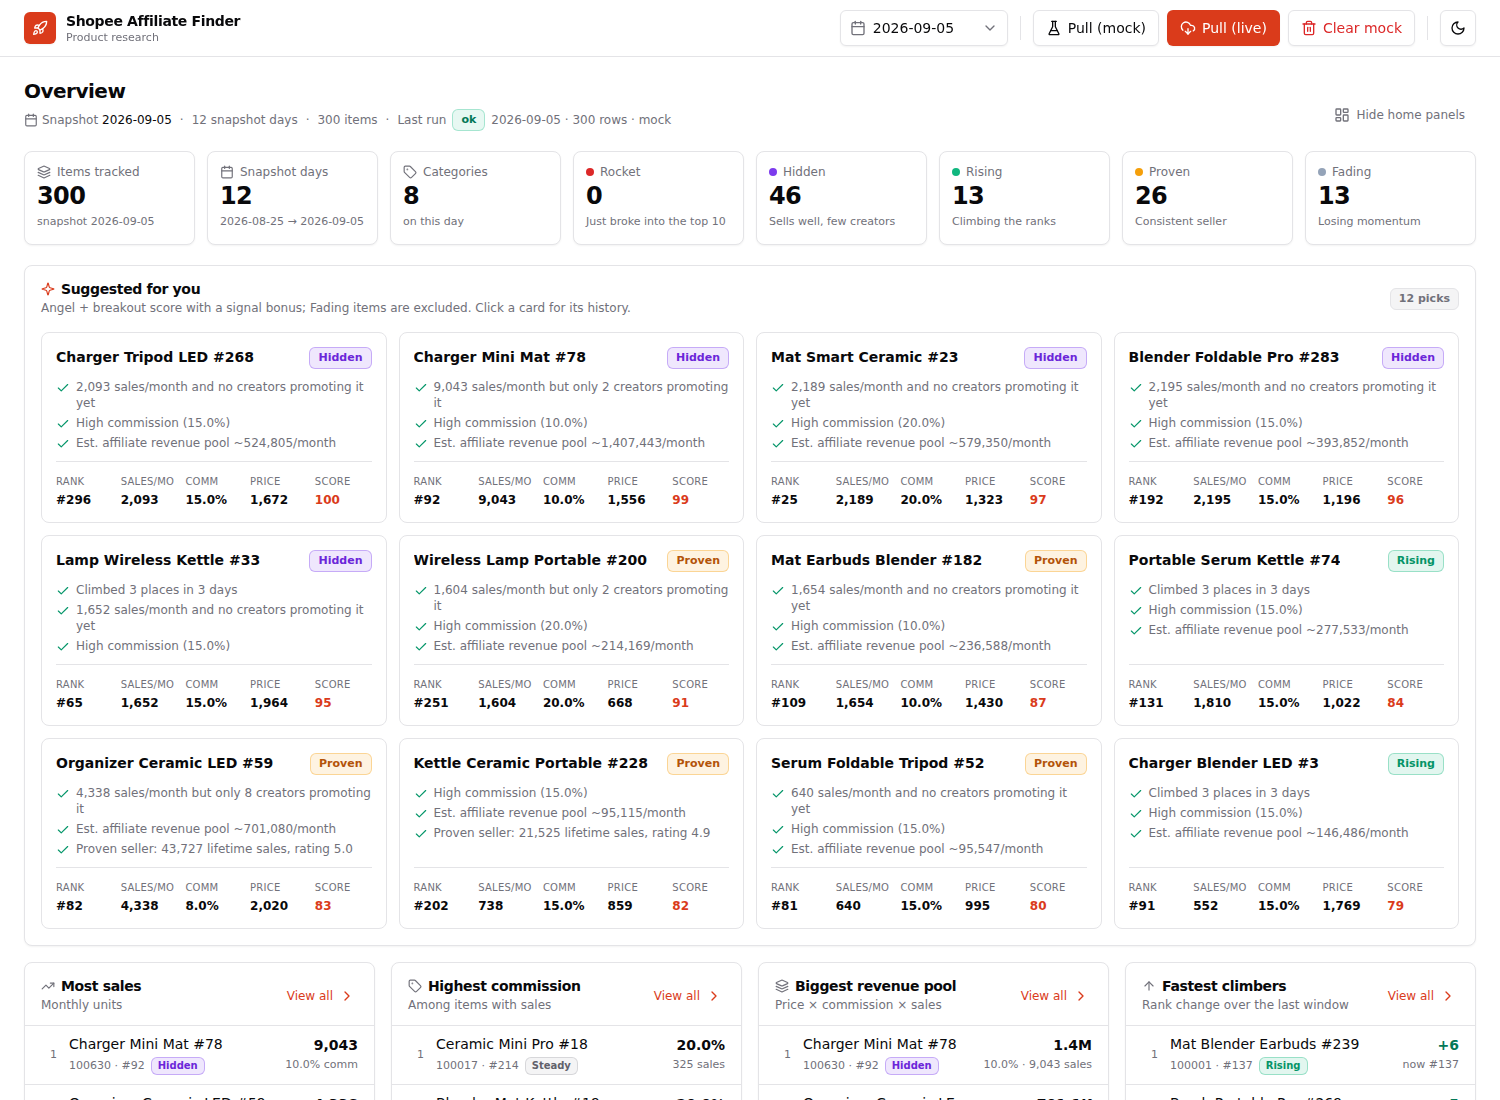
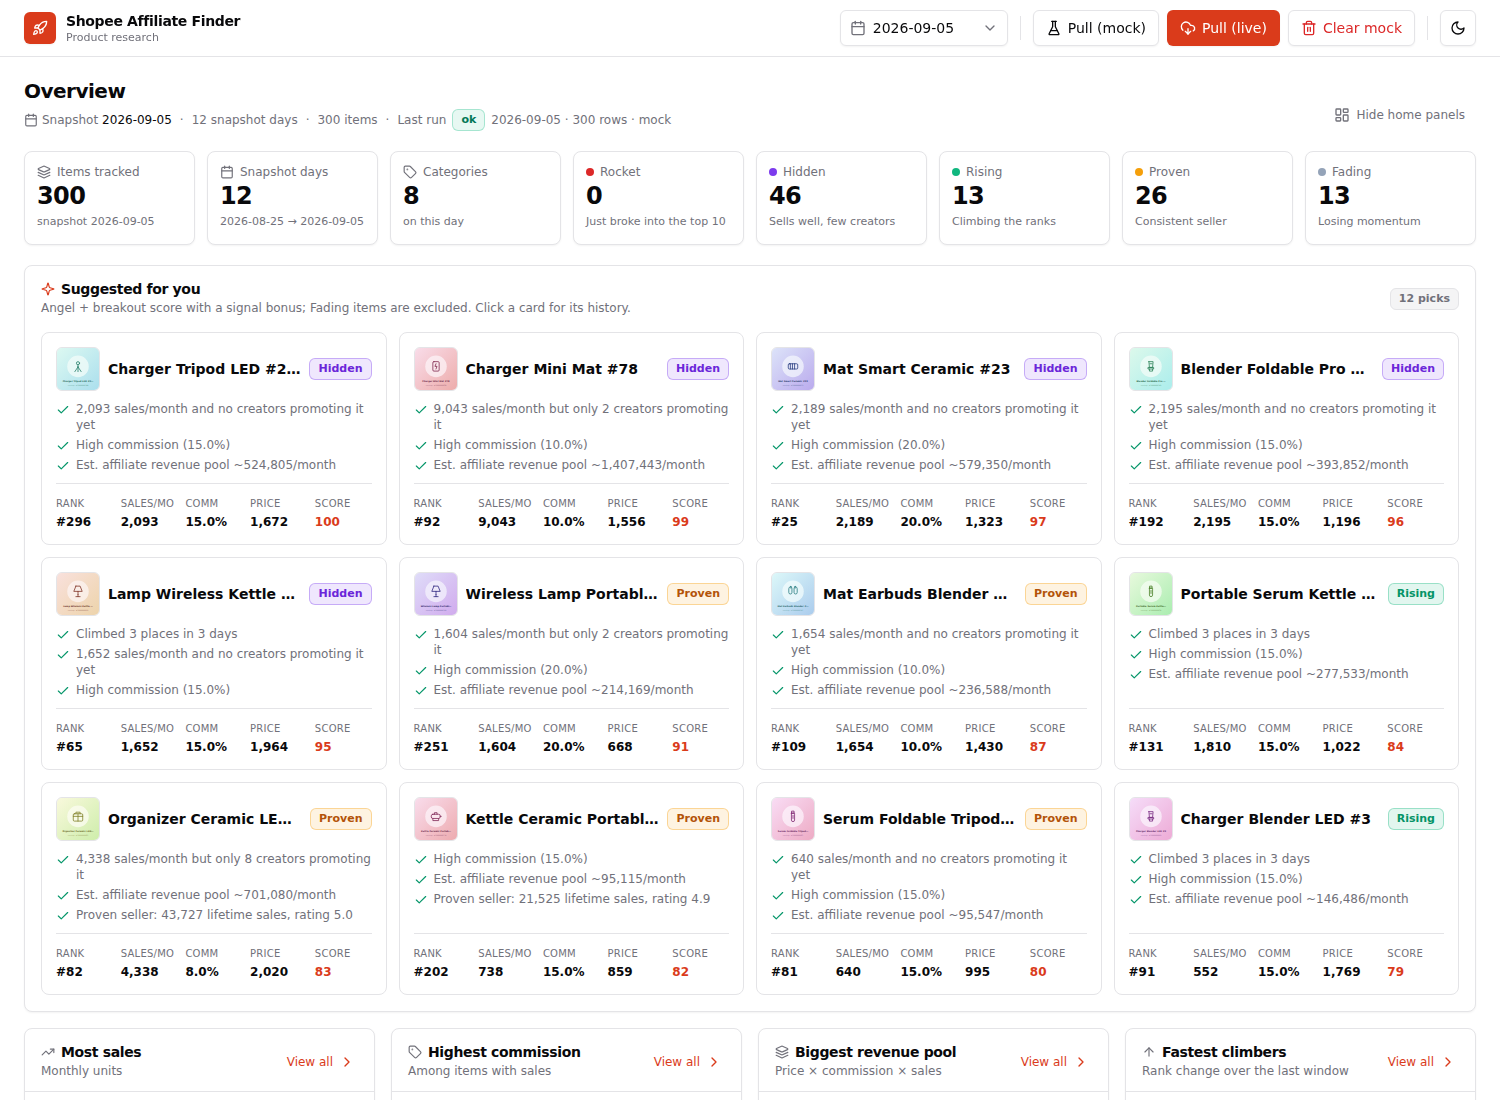
Add product thumbnails with generated mock-up images
Show product images in suggested-pick cards, top-10 lists, table rows and
the detail panel. Real Shopee imageUrl values are used when present; a new
/img/placeholder/{item_id}.svg endpoint renders a deterministic mock-up
(hue from the item id, line icon from the product type in the title) for
synthetic rows and as an onerror fallback for missing or broken images.

Claude-Session: https://claude.ai/code/session_01Ni1ZSZnkdAAxzhbuxuRvuD

Changed region(s): [[0.0307, 0.3091, 0.9813, 1.0], [0.92, 0.9273, 0.9813, 0.9891]]

diff --git a/shopee_aff/templates/index.html b/shopee_aff/templates/index.html
@@ -143,6 +143,7 @@
     .field { @apply flex min-w-0 flex-col gap-1.5; }
     .field > span { @apply text-xs font-medium text-muted-foreground; }
     .card { @apply rounded-lg border bg-card text-card-foreground shadow-sm; }
+    .thumb { @apply shrink-0 rounded-md border bg-muted object-cover; }
     .card-head { @apply flex flex-wrap items-start justify-between gap-3 p-4 pb-2; }
     .card-title { @apply text-sm font-semibold leading-none tracking-tight; }
     .card-desc { @apply mt-1 text-xs text-muted-foreground; }
@@ -197,7 +198,8 @@
     .list .v small { @apply block text-[11px] font-normal text-muted-foreground; }
     .pick { @apply flex cursor-pointer flex-col gap-2.5 rounded-lg border bg-card p-3.5 transition-colors hover:border-primary/60 hover:bg-accent/40 focus-visible:outline-none focus-visible:ring-2 focus-visible:ring-ring focus-visible:ring-offset-2 ring-offset-background text-left; }
     .pick .head { @apply flex items-start justify-between gap-2; }
-    .pick .head b { @apply min-w-0 truncate font-semibold leading-5; }
+    .pick .head b { @apply min-w-0 flex-1 truncate font-semibold leading-5; }
+    .pick .head { @apply items-center; }
     .pick ul { @apply flex flex-col gap-1 text-xs text-muted-foreground; }
     .pick ul li { @apply flex items-start gap-1.5; }
     .pick ul svg { @apply mt-0.5 h-3.5 w-3.5 shrink-0 text-emerald-600 dark:text-emerald-400; }
@@ -386,6 +388,8 @@
 
 <script>
 const SIGNALS = {{ signals|tojson }};
+const imgSrc = it => (it.image_url && !/\.example\//.test(it.image_url)) ? it.image_url : `/img/placeholder/${it.item_id}.svg`;
+const thumb = (it, cls) => `<img class="thumb ${cls}" src="${esc(imgSrc(it))}" alt="" loading="lazy" onerror="this.onerror=null;this.src='/img/placeholder/${it.item_id}.svg'">`;
 const COLS = [
   ["rank","Rank",false], ["title","Product",true], ["category","Category",true], ["price","Price",false],
   ["commission_rate","Comm %",false], ["monthly_sales","Sales/mo",false], ["est_monthly_revenue","Est. rev.",false],
@@ -554,9 +558,11 @@ async function load() {
   $("body").innerHTML = data.items.map(it => `
     <tr data-id="${it.item_id}" tabindex="0" aria-expanded="false">
       <td class="text-muted-foreground">${fmt(it.rank)}</td>
-      <td class="l max-w-[270px]">
+      <td class="l max-w-[300px]">
+        <div class="flex items-center gap-2.5">${thumb(it, "h-9 w-9")}<div class="min-w-0">
         <div class="truncate font-medium" title="${esc(it.title)}">${it.product_link?`<a class="hover:underline" href="${esc(it.product_link)}" target="_blank" rel="noopener">${esc(it.title)}</a>`:esc(it.title)}</div>
         <div class="truncate text-[11px] text-muted-foreground">${esc(it.shop_name||"")}</div>
+        </div></div>
       </td>
       <td class="l text-muted-foreground">${esc(it.category||"")}</td>
       <td>${fmt(it.price,2)}</td>
@@ -634,6 +640,7 @@ function detailHtml(d) {
   const link = (href, label) => href ? `<a class="btn btn-outline btn-sm" href="${esc(href)}" target="_blank" rel="noopener">${label}${ic("ext","h-3.5 w-3.5")}</a>` : "";
   return `<div class="grid gap-4 md:grid-cols-[280px_minmax(0,1fr)]">
     <div class="flex min-w-0 flex-col gap-3">
+      <div class="overflow-hidden rounded-lg border bg-muted"><img class="aspect-square w-full object-cover" src="${esc(imgSrc(it))}" alt="${esc(it.title)}" onerror="this.onerror=null;this.src='/img/placeholder/${it.item_id}.svg'"></div>
       <div class="rounded-lg border bg-card p-3">${sparkline(d.history)}</div>
       <dl class="dl rounded-lg border bg-card p-3">
         <dt>Item ID</dt><dd>${esc(it.item_id)}</dd>
@@ -718,6 +725,7 @@ document.addEventListener("keydown", e => { if (e.key === "Escape") { closeModal
 function listPanel(title, sub, items, valueFn, sortKey, icon) {
   const rows = items.map((it, i) => `<li data-id="${it.item_id}" tabindex="0" role="button">
       <span class="n">${i+1}</span>
+      ${thumb(it, "h-8 w-8")}
       <span class="t"><b title="${esc(it.title)}">${esc(it.title)}</b><small><span class="truncate">${esc(it.category||"")} · #${fmt(it.rank)}</span>${badge(it.signal, "px-1.5 py-0 text-[10px]")}</small></span>
       <span class="v">${valueFn(it)}</span></li>`).join("") || `<li class="cursor-default justify-center py-8 text-xs text-muted-foreground hover:bg-transparent">No data for this day</li>`;
   return `<div class="card flex min-w-0 flex-col">
@@ -738,7 +746,7 @@ async function loadHome() {
   }
   const h = await r.json();
   const picks = h.suggestions.map(it => `<div class="pick" data-id="${it.item_id}" tabindex="0" role="button">
-      <div class="head"><b title="${esc(it.title)}">${esc(it.title)}</b>${badge(it.signal)}</div>
+      <div class="head">${thumb(it, "h-11 w-11")}<b title="${esc(it.title)}">${esc(it.title)}</b>${badge(it.signal)}</div>
       <ul>${it.reasons.map(x=>`<li>${ic("check")}<span>${esc(x)}</span></li>`).join("")}</ul>
       <div class="kpis">
         <div><div class="lbl">Rank</div><div class="val">#${fmt(it.rank)}</div></div>

diff --git a/shopee_aff/placeholder.py b/shopee_aff/placeholder.py
@@ -1,0 +1,49 @@
+"""Deterministic SVG product mock-up images.
+
+Used for synthetic rows and as a fallback whenever a real product image is missing or fails to load.
+The look is derived from the item id (hue) and the title (a line icon for the product type).
+"""
+from __future__ import annotations
+
+import hashlib
+
+# (keyword, lucide-style stroke paths drawn in a 24x24 box)
+ICONS: list[tuple[str, str]] = [
+    ("earbud", '<path d="M8 3a4 4 0 0 0-4 4v7a3 3 0 0 0 6 0V7a4 4 0 0 0-2-4Z"/><path d="M16 3a4 4 0 0 1 4 4v7a3 3 0 0 1-6 0V7a4 4 0 0 1 2-4Z"/><path d="M8 3v3M16 3v3"/>'),
+    ("blender", '<path d="M8 3h8l-1 11H9L8 3Z"/><path d="M7 14h10v3H7z"/><path d="M9 17v4h6v-4"/><path d="M10 7h4"/>'),
+    ("serum", '<path d="M10 2h4v4h-4z"/><path d="M9 6h6v3a3 3 0 0 1 0 0v10a3 3 0 0 1-3 3 3 3 0 0 1-3-3V6Z"/><path d="M12 10v6"/>'),
+    ("tripod", '<circle cx="12" cy="6" r="3"/><path d="M12 9v4"/><path d="M12 13l-6 9M12 13l6 9M12 13v9"/>'),
+    ("charger", '<rect x="6" y="3" width="12" height="18" rx="2"/><path d="M12 7l-2 5h4l-2 5"/>'),
+    ("lamp", '<path d="M8 2h8l4 10H4L8 2Z"/><path d="M12 12v6"/><path d="M8 22h8"/><path d="M12 18v4"/>'),
+    ("organizer", '<rect x="3" y="7" width="18" height="14" rx="2"/><path d="M3 12h18M12 7v14"/><path d="M8 7V4h8v3"/>'),
+    ("kettle", '<path d="M6 8h11a3 3 0 0 1 3 3v2a3 3 0 0 1-3 3H6a3 3 0 0 1-3-3v-2a3 3 0 0 1 3-3Z"/><path d="M6 16v4h11v-4"/><path d="M9 8V5h5v3"/><path d="M20 12h2"/>'),
+    ("mat", '<rect x="3" y="7" width="18" height="10" rx="2"/><path d="M7 7v10M11 7v10M15 7v10"/>'),
+    ("brush", '<path d="M14 3l7 7-9 9-7-7 9-9Z"/><path d="M5 12l-2 2a3 3 0 0 0 4 4l2-2"/>'),
+    ("", '<path d="M21 8l-9-5-9 5v8l9 5 9-5V8Z"/><path d="M3 8l9 5 9-5M12 13v8"/>'),  # generic box
+]
+
+
+def _icon_for(title: str) -> str:
+    t = (title or "").lower()
+    for key, path in ICONS:
+        if key and key in t:
+            return path
+    return ICONS[-1][1]
+
+
+def render(item_id: int, title: str = "") -> str:
+    h = int(hashlib.md5(str(item_id).encode()).hexdigest()[:6], 16)
+    hue = h % 360
+    hue2 = (hue + 28) % 360
+    label = (title or f"Item {item_id}").strip()
+    if len(label) > 22:
+        label = label[:21] + "…"
+    label = label.replace("&", "&amp;").replace("<", "&lt;")
+    return f'''<svg xmlns="http://www.w3.org/2000/svg" viewBox="0 0 320 320" width="320" height="320" role="img" aria-label="{label}">
+<defs><linearGradient id="g" x1="0" y1="0" x2="1" y2="1"><stop offset="0" stop-color="hsl({hue} 70% 92%)"/><stop offset="1" stop-color="hsl({hue2} 65% 80%)"/></linearGradient></defs>
+<rect width="320" height="320" fill="url(#g)"/>
+<circle cx="160" cy="140" r="82" fill="hsl({hue} 60% 97% / 0.75)"/>
+<g transform="translate(112 92) scale(4)" fill="none" stroke="hsl({hue} 55% 32%)" stroke-width="1.5" stroke-linecap="round" stroke-linejoin="round">{_icon_for(title)}</g>
+<text x="160" y="262" text-anchor="middle" font-family="Inter, system-ui, sans-serif" font-size="17" font-weight="600" fill="hsl({hue} 45% 28%)">{label}</text>
+<text x="160" y="286" text-anchor="middle" font-family="Inter, system-ui, sans-serif" font-size="12" fill="hsl({hue} 30% 45%)">mock-up · #{item_id}</text>
+</svg>'''

diff --git a/shopee_aff/api.py b/shopee_aff/api.py
@@ -23,13 +23,14 @@ from pathlib import Path
 from typing import Any
 
 from fastapi import FastAPI, HTTPException, Query, Request
-from fastapi.responses import HTMLResponse, JSONResponse, StreamingResponse
+from fastapi.responses import HTMLResponse, JSONResponse, Response, StreamingResponse
 from fastapi.templating import Jinja2Templates
 from psycopg import sql
 
 from .config import get_settings
 from .db import connect, migrate
 from .ingest import purge_mock, run_ingest, seed_mock_if_empty
+from .placeholder import render as render_placeholder
 from .home import build_suggestions
 from .scheduler import build_scheduler
 from .signals import SIGNALS
@@ -183,6 +184,22 @@ def health():
 @app.get("/", response_class=HTMLResponse)
 def index(request: Request):
     return TEMPLATES.TemplateResponse(request, "index.html", {"signals": SIGNALS})
+
+
+@app.get("/img/placeholder/{item_id}.svg")
+def placeholder_image(item_id: int):
+    """Generated mock-up product image (used for synthetic rows and as an <img> fallback)."""
+    title = ""
+    try:
+        with connect() as conn:
+            rec = conn.execute(
+                "SELECT title FROM product_snapshots WHERE item_id = %s ORDER BY snapshot_date DESC LIMIT 1", (item_id,)
+            ).fetchone()
+            title = rec["title"] if rec else ""
+    except Exception:  # noqa: BLE001 - image must never 500 because of the DB
+        title = ""
+    return Response(render_placeholder(item_id, title), media_type="image/svg+xml",
+                    headers={"Cache-Control": "public, max-age=86400"})
 
 
 @app.get("/api/meta")

diff --git a/shopee_aff/mock_source.py b/shopee_aff/mock_source.py
@@ -75,7 +75,7 @@ def generate(snapshot_date: date, n: int = 300) -> Iterator[dict[str, Any]]:
             "cumulativeSales": it["cumulativeSales"] + sales * max(t, 0) // 30,
             "partnerCount": it["partnerCount"],
             "ratingStar": str(it["ratingStar"]),
-            "imageUrl": f"https://cf.shopee.example/{it['itemId']}.jpg",
+            "imageUrl": f"/img/placeholder/{it['itemId']}.svg",
             "productLink": f"https://shopee.example/product/{it['shopId']}/{it['itemId']}",
             "offerLink": f"https://s.shopee.example/{it['itemId']}",
             "periodStartTime": 0,
